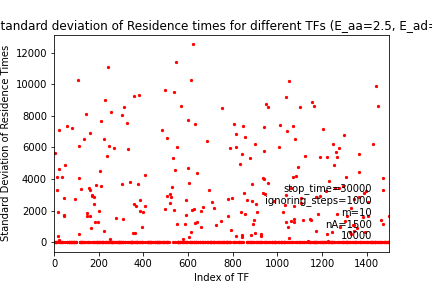
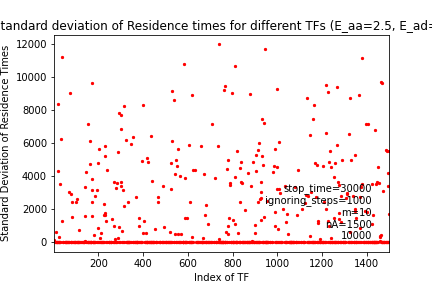
jobN3 di oggi

diff --git a/MC_simulation_protein_A.py b/MC_simulation_protein_A.py
@@ -17,7 +17,7 @@ import functions_MC_simulation_both
 
 
 alfa = 0.15 #ratio between nA/N 
-N = 6000 #total number of binding sites in the DNA
+N = 3000 #total number of binding sites in the DNA
 nA = int (N*alfa) #number of As
 
 
@@ -245,7 +245,7 @@ for E_aa in E_aa_values:
     plot_filename = os.path.join(subfolder_path, f'nA_{nA}_n_{N}_bound_in_time_Eaa_{E_aa}_Ead_{E_ad}.png')
     plt.savefig(plot_filename)
     plt.show()
-    
+    plt.close()
     
     plt.figure(figsize=(8, 6))
     cmap = plt.get_cmap('viridis')
@@ -273,6 +273,7 @@ for E_aa in E_aa_values:
     plt.savefig(plot_filename)
 
     plt.show()
+    plt.close()
     
     # cmap = plt.get_cmap('viridis')
     # plt.figure(figsize=(8, 6))

diff --git a/functions_MC_simulation_both.py b/functions_MC_simulation_both.py
@@ -11,8 +11,8 @@ import cluster_class
 
 def create_folders (folder_name, alfa): 
 
-
-    subfolder_name = f'alfa_{alfa}'
+    subfolder_name = 'System_size_analysis'
+    #subfolder_name = f'alfa_{alfa}'
     subfolder_path = os.path.join(folder_name, subfolder_name)
     os.makedirs(subfolder_path, exist_ok=True)
     return subfolder_path
